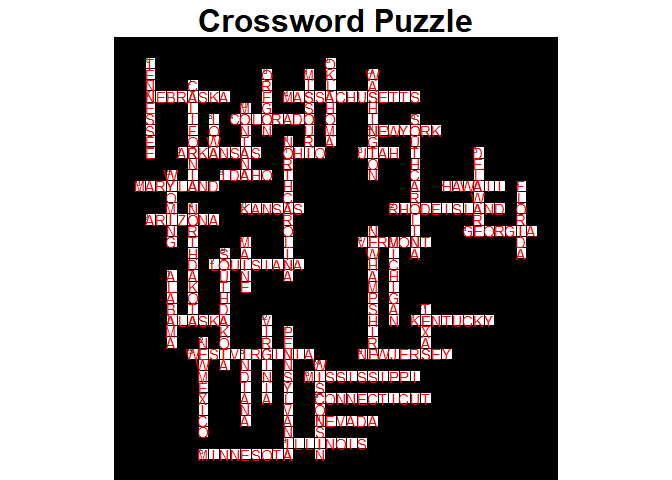
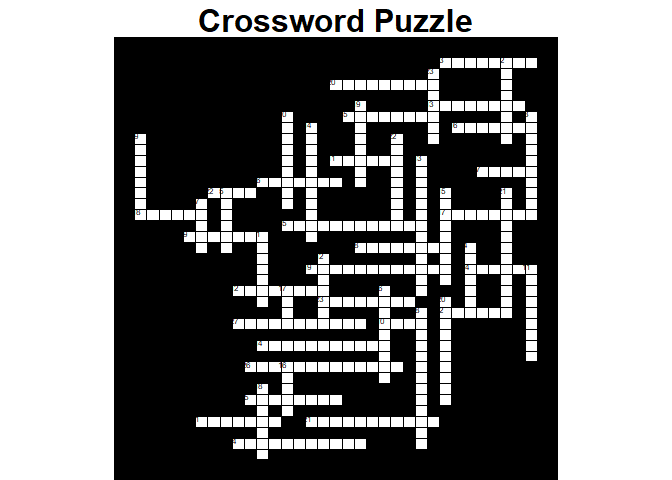
add readme/description changes????

Changed region(s): [[0.1875, 0.0938, 0.8125, 0.9688]]

diff --git a/README.md b/README.md
@@ -15,13 +15,13 @@ Features:
 ## Installation
 
 ``` r
-install.packages("devtools")
+# install.packages("devtools")
 devtools::install_github("anthonypileggi/worrrd")
 ```
 
 ## Wordsearch
 
-Create your very own custom wordsearch! Worrrd.
+Create your very own custom word search! Worrrd.
 
 ``` r
 library(worrrd)
@@ -48,36 +48,6 @@ plot(x, solution = TRUE, puzzle_size = 2, legend_size = 2)
 
 ![](man/figures/README-wordsearch-hard-1.png)<!-- -->
 
-### Custom Shapes
-
-Wait, what? You want to make it in the shape of a banana? I mean, that’s
-kinda weird… but why not!
-
-``` r
-library(cowplot)
-#> Warning: package 'cowplot' was built under R version 4.1.3
-banana <- "https://upload.wikimedia.org/wikipedia/commons/9/96/Tux_Paint_banana.svg"
-words <- c("banana", "apple", "grapes", "orange", "pear", "kumquat")
-x <- wordsearch(words, r = 20, c = 20, image = banana)
-#> Found positions for 6/6 words.
-cowplot::ggdraw() +
-  cowplot::draw_image(banana) +
-  cowplot::draw_plot(plot(x, solution = TRUE))
-```
-
-![](man/figures/README-wordsearch-banana-1.png)<!-- -->
-
-This lion was hungry. Can you find the antelope he ate?
-
-``` r
-lion <- "https://us.123rf.com/450wm/miceking/miceking1506/miceking150601500/40903456-stock-vector-lion-silhouette.jpg"
-x <- wordsearch("antelope", r = 40, c = 40, image = lion)
-#> Found positions for 1/1 words.
-plot(x, solution = TRUE, puzzle_size = 2)
-```
-
-![](man/figures/README-wordsearch-lion-1.png)<!-- -->
-
 ## Crossword Puzzle
 
 Oh, you’re one of the more sophisticated types that craves a crossword
@@ -91,14 +61,20 @@ x <- crossword(words, clues, r = 40, c = 40)
 x
 #> Crossword Puzzle
 #> Contains 50 clues.
-#> There are 25 across and 25 down.
+#> There are 27 across and 23 down.
 ```
+
+``` r
+plot(x)
+```
+
+![](man/figures/README-crossword-1.png)<!-- -->
 
 ``` r
 plot(x, solution = TRUE)
 ```
 
-![](man/figures/README-crossword-1.png)<!-- -->
+![](man/figures/README-crossword-2.png)<!-- -->
 
 ## Known Issues
 
